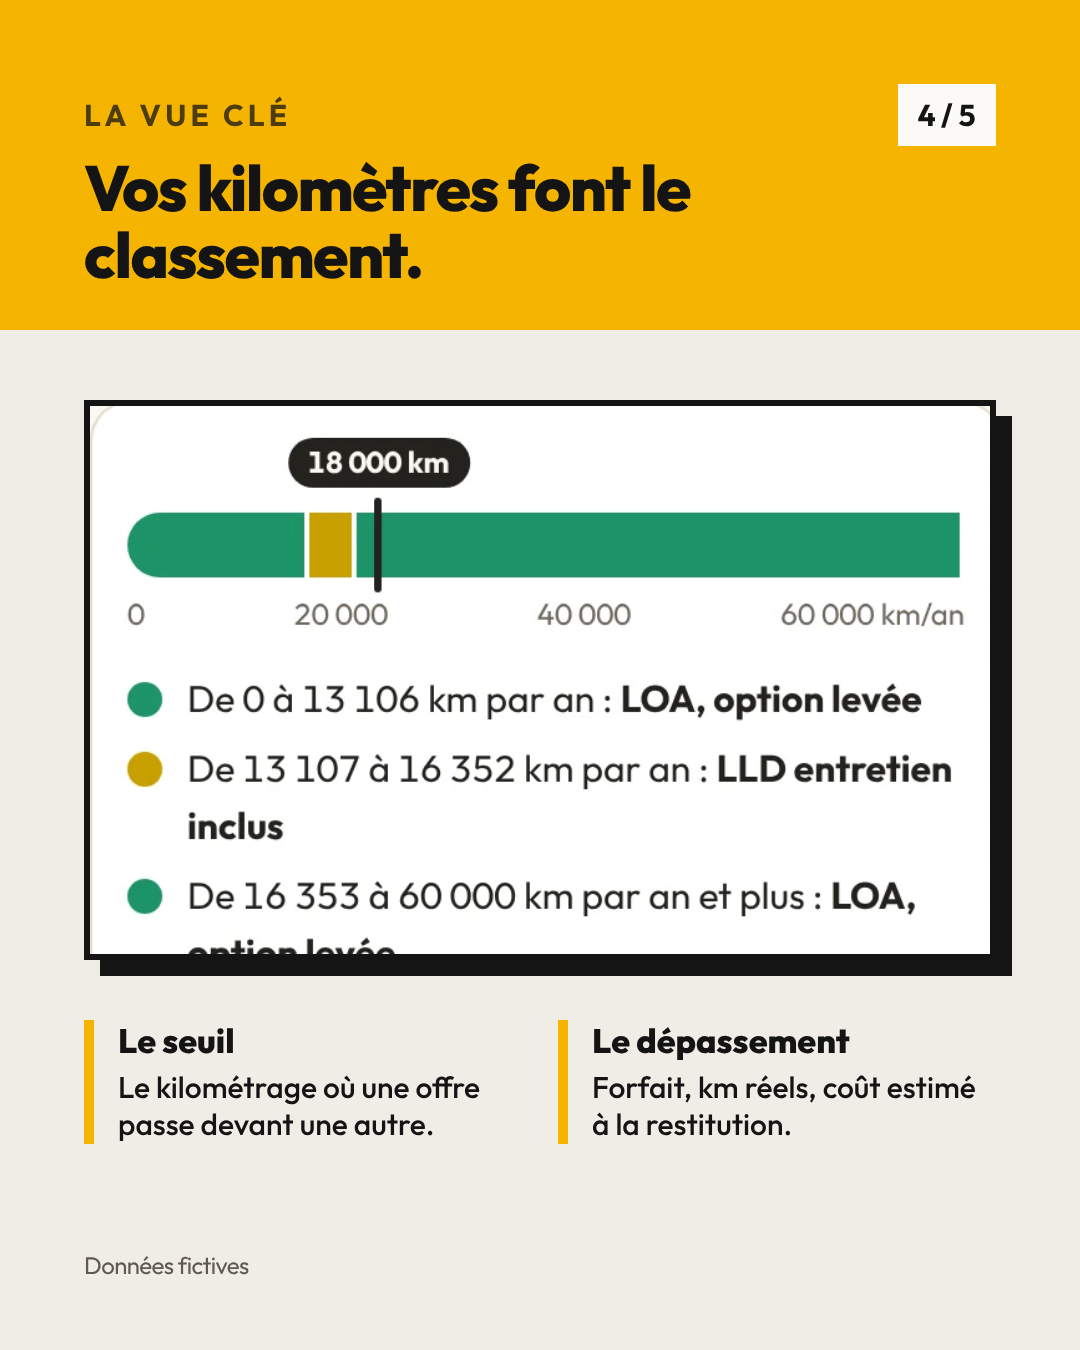
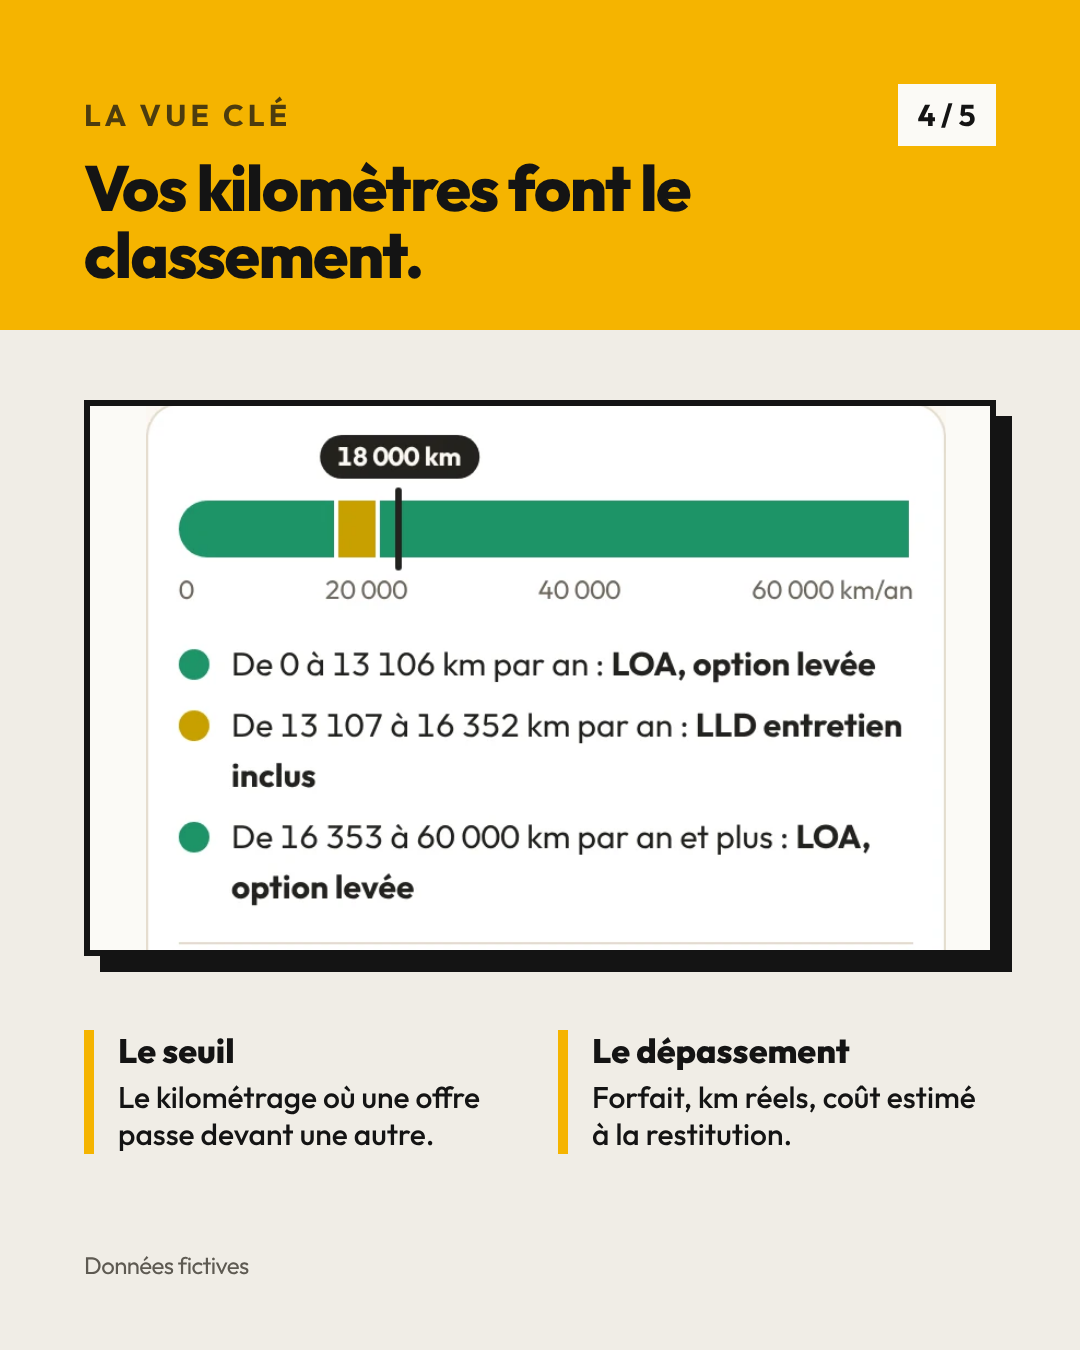
T66 Simulateur leasing ou achat : application, tests, page catalogue, captures et communication
Claude-Session: https://claude.ai/code/session_0183EW52c4YZM6xoukpbqtKb

diff --git a/docs/templates/communication/leasing/instagram/carrousel.html b/docs/templates/communication/leasing/instagram/carrousel.html
@@ -61,9 +61,9 @@ h1,h2,p{letter-spacing:-.025em}
 .points b{display:block;font-weight:800;font-size:38px;margin-bottom:6px}
 #leasing-4 .bandeau{background:var(--jaune);color:var(--encre)}
 #leasing-4 .bandeau .sourcil{color:var(--encre);opacity:.75}
-#leasing-4 .fenetre{position:absolute;left:84px;right:84px;top:400px;height:590px;border:6px solid var(--encre);box-shadow:16px 16px 0 var(--encre);background:var(--surface);overflow:hidden}
+#leasing-4 .fenetre{position:absolute;left:84px;right:84px;top:400px;height:556px;border:6px solid var(--encre);box-shadow:16px 16px 0 var(--encre);background:var(--surface);overflow:hidden}
 #leasing-4 .fenetre img{position:absolute;width:800px;left:56px;top:-6px}
-#leasing-4 .points{position:absolute;left:84px;right:84px;top:1050px;display:grid;grid-template-columns:1fr 1fr;gap:36px}
+#leasing-4 .points{position:absolute;left:84px;right:84px;top:1030px;display:grid;grid-template-columns:1fr 1fr;gap:36px}
 #leasing-4 .points div{font-size:30px}
 #leasing-4 .points b{font-size:34px}
 

diff --git a/docs/templates/communication/leasing/prospects.md b/docs/templates/communication/leasing/prospects.md
@@ -1,0 +1,63 @@
+# Prospects · Simulateur leasing ou achat
+
+Segments et organisations à démarcher. Aucune donnée personnelle collectée : on cible des fonctions et des
+structures, on écrit à des adresses professionnelles publiques ou via LinkedIn. Les types d'organismes
+cités existent ; aucun organisme n'est nommé ici, leur intérêt, leurs règles de recommandation et le bon
+interlocuteur sont **à vérifier** au premier contact. Aucun n'a été contacté.
+
+Produit d'appel à 12 € pour un public large (particuliers et indépendants) : la publication LinkedIn, le
+carrousel Instagram, les créateurs de contenu « finances personnelles » et le programme d'affiliation
+Gumroad comptent plus qu'une prospection une à une. **Ne jamais démarcher des vendeurs, concessions,
+banques ou loueurs comme partenaires** : l'outil sert à comparer leurs offres, il doit rester neutre.
+
+Positionnement à tenir dans tous les messages : une **simulation** que l'on remplit avec **ses propres
+devis**, sans donnée de marché ni connexion à un vendeur ; le **coût total net** sur la même période,
+revente et kilomètres compris ; **pas un conseil financier** ; la fiscalité des indépendants **n'est pas
+calculée**. Aucune économie promise.
+
+## Priorité 1 · Acheteurs directs
+
+| Segment | Pourquoi ils ont le problème | Où les trouver | Canal | Priorité |
+|---|---|---|---|---|
+| Ménages qui changent de voiture (familles, jeunes actifs) | Offres de LOA mises en avant par le loyer, comparaison difficile avec un crédit | Groupes et forums « budget », comptes Instagram finances personnelles | Instagram, LinkedIn | Haute |
+| Indépendants et professions libérales qui roulent beaucoup | Hésitent entre LLD et achat, kilométrage élevé, forfait décisif | Communautés de freelances, groupes LinkedIn d'indépendants | LinkedIn | Haute |
+| Gros rouleurs (commerciaux itinérants, trajets domicile-travail longs) | Le dépassement de forfait change tout | Groupes professionnels de commerciaux | LinkedIn | Moyenne |
+| Jeunes conducteurs, premier achat | Peu d'apport, offres « sans apport » à décoder | Comptes et chaînes « argent » pour étudiants et jeunes actifs | Instagram | Moyenne |
+| Retraités qui renouvellent leur véhicule | Comptant ou crédit, placement de l'épargne | Associations de retraités, presse locale | Partenaires | Basse |
+
+## Priorité 2 · Prescripteurs
+
+| Segment | Exemples (à vérifier) | Pourquoi | Qui contacter (fonction) | Approche | Canal |
+|---|---|---|---|---|---|
+| Conseillers en budget et éducateurs financiers | Points conseil budget, associations d'éducation budgétaire | Accompagnent des décisions d'achat importantes | Conseiller, responsable d'atelier | Démo en atelier, accès offert ; aucune rémunération supposée | E-mail professionnel public |
+| Associations de consommateurs | Associations locales de défense des consommateurs | Informent sur la LOA, la LLD et le crédit | Bénévole ou juriste chargé de l'information | Démo, liste de questions au vendeur | E-mail professionnel public |
+| Créateurs de contenu « finances personnelles » et « indépendants » | Newsletters, podcasts, comptes Instagram | Audience exactement ciblée | Adresse professionnelle publique | Affiliation Gumroad, accès gratuit, aucun contenu sponsorisé imposé | E-mail, Instagram, LinkedIn |
+| Experts-comptables d'indépendants | Cabinets locaux | Leurs clients demandent « LLD ou achat ? » ; l'outil compare le coût réel, eux ajoutent la fiscalité | Collaborateur chargé des indépendants | Démo et accès offert ; règles déontologiques à vérifier | E-mail professionnel public, LinkedIn |
+| Réseaux d'accompagnement à la création | Couveuses, coopératives d'activité et d'emploi | Premier véhicule professionnel des accompagnés | Chargé d'accompagnement | Démo, accès offert | E-mail professionnel public |
+
+## Priorité 3 · Partenaires (offrir ou intégrer le template)
+
+| Segment | Exemples (à vérifier) | Pourquoi | Qui contacter (fonction) | Approche |
+|---|---|---|---|---|
+| Comités sociaux et économiques (CSE) | CSE d'entreprises moyennes | Avantages pour les salariés, ateliers « budget » | Élu chargé des activités | Lot de codes `VTR` à tarif de groupe, à étudier |
+| Mutuelles et associations d'entraide | Services d'action sociale | Aide à la décision pour les adhérents | Responsable de l'action sociale | Accès offert pour un groupe test |
+| Écoles et formations (gestion, BTS, éducation financière) | Modules de mathématiques financières | Exercice concret sur l'annuité et le coût total | Enseignant, responsable pédagogique | Accès offert pour une classe |
+
+## Calendrier conseillé
+
+- **Janvier** : nouvelles résolutions budgétaires, renouvellement de véhicules en début d'année.
+- **Avant l'été** : achats de voiture pour les vacances.
+- **Septembre** : rentrée, changements de situation (déménagement, nouveau travail, trajets plus longs).
+
+## Message d'approche type (prescripteur, 3 lignes)
+
+> Bonjour, j'ai conçu un simulateur qui compare comptant, crédit, LOA et LLD pour une même voiture : coût
+> total net revente déduite, coût par kilomètre, seuil de kilométrage et questions à poser au vendeur, à
+> partir de ses propres devis. Je vous propose un accès gratuit pour l'essayer : https://qm-engineering.fr/templates/leasing/?demo
+
+## À vérifier avant tout contact
+
+- Les règles de recommandation d'un outil payant par une association, un point conseil ou un
+  expert-comptable : ne proposer qu'un accès gratuit et une démo, sans contrepartie.
+- Le programme d'affiliation Gumroad (taux, conditions) au moment de le proposer.
+- Que le message ne présente jamais l'outil comme un conseil financier ou fiscal.

diff --git a/docs/templates/communication/leasing/instagram.md b/docs/templates/communication/leasing/instagram.md
@@ -1,0 +1,67 @@
+# Publication Instagram · Simulateur leasing ou achat
+
+Carrousel de 5 vues (1080 × 1350) au gabarit des posts template (`car-1`, `car-2`, `car-3` de
+`../instagram/gabarits.html`), vue 5 avec renvoi au sur mesure. Kit : `../instagram/README.md`.
+Source : `instagram/carrousel.html`, rendue par
+`node docs/templates/communication/instagram/rendre.mjs ../leasing/instagram/carrousel.html`
+(PNG déplacés ensuite dans `instagram/`). Visuels : `instagram/leasing-1.png` … `-5.png`, regardés le
+14/11/2026. Titre interne proposé pour le planning : **« Template · Simulateur leasing ou achat »**.
+
+- À publier le lendemain de la publication LinkedIn, à 18:30 (planning Instagram, pas encore planifié).
+- Prix 12 € (prix minimum de Quentin), **non vérifié** : fiche Gumroad pas encore en ligne le 14/11/2026.
+  Ne publier que si la fiche est en ligne à la date prévue, sinon décaler.
+- Démo (autocollant lien d'une story, si les stories reprennent) : https://qm-engineering.fr/templates/leasing/?demo
+- Faits repris de `linkedin.md` et de l'application uniquement. Aucune marque ni modèle de voiture réel,
+  aucune économie promise.
+
+## Vues
+
+1. Couverture-question (papier) : « LOA, LLD, crédit ou comptant ? » / Laquelle vous coûtera vraiment le
+   moins cher ?
+2. Le problème (fond encre) : Un loyer n'est pas un prix ; premier loyer, option d'achat, forfait
+   kilométrique, revente ; ce qui compte, c'est le coût total sur la période.
+3. Ce que fait le template (bandeau bleu, capture téléphone `templates-leasing-tel.webp`, 3 points) :
+   Toutes vos offres, au même étalon.
+4. La vue clé (bandeau jaune, capture téléphone du bloc kilométrage `templates-leasing-km-tel.webp`) : Vos
+   kilomètres font le classement.
+5. Appel à l'action (fond jaune), 12 €, renvoi au sur mesure.
+
+## Accroches (première ligne de la légende)
+
+- **Variante A (retenue)** : Un loyer de LOA n'est pas le prix de votre voiture.
+- **Variante B** : LOA, LLD, crédit ou comptant : la moins chère dépend surtout de vos kilomètres.
+
+## Textes alternatifs
+
+1. Titre « LOA, LLD, crédit ou comptant ? » sur fond clair, sous-titre « Laquelle vous coûtera vraiment le moins cher ? », formes géométriques rouge et jaune.
+2. Fond noir : Un loyer n'est pas un prix. Premier loyer, option d'achat, forfait kilométrique, revente : chaque offre met en avant un chiffre différent. Ce qui compte, c'est le coût total sur la période.
+3. Le template Simulateur leasing ou achat : toutes vos offres, au même étalon. Capture sur téléphone de la comparaison d'un SUV hybride fictif, avec l'offre la moins chère et son coût net. Coût total net revente déduite, coût par mois et par kilomètre, hypothèses modifiables. Données fictives.
+4. Vos kilomètres font le classement : capture de la barre des kilométrages de 0 à 60 000 km par an, avec l'offre la moins chère pour chaque plage et le repère à 18 000 km. Seuil où une offre passe devant une autre, dépassement de forfait estimé. Données fictives.
+5. Fond jaune : essayez-le avec deux voitures fictives, démo libre sans inscription, aucune donnée de marché, vos devis, achat unique à 12 €. Besoin de plus ? Version sur mesure. Lien en bio.
+
+## Légende retenue
+
+Un loyer de LOA n'est pas le prix de votre voiture.
+
+Premier loyer, option d'achat, forfait kilométrique, revente : chaque offre met en avant un chiffre différent, et aucune ne dit ce que la voiture coûtera vraiment.
+
+Le Simulateur leasing ou achat :
+▪ compare comptant, crédit, LOA et LLD sur la même période, revente estimée déduite ;
+▪ donne le coût par mois et par kilomètre, et le kilométrage où une offre passe devant une autre ;
+▪ liste les questions à poser au vendeur avant de signer.
+
+Vous reportez vos propres devis, les hypothèses restent visibles. Simulation, pas un conseil financier. Achat unique, 12 €.
+
+Besoin de plus ? Vos règles, vos utilisateurs, vos outils : je construis la version sur mesure.
+
+Démo libre et contact : lien en bio.
+
+#BudgetFamilial #Budget #Organisation #Indépendant #Freelance
+
+## Story d'annonce
+
+Gabarit `story` du kit (1080 × 1920) : « Leasing ou achat : le vrai prix de votre voiture. » ; sous-titre
+« Comptant, crédit, LOA, LLD côte à côte » ; autocollant lien vers
+https://qm-engineering.fr/templates/leasing/?demo (« Essayer la démo ») ; mention « Données fictives » si
+une capture est reprise. Stories en pause depuis le 13/11/2026 (voir le kit) : image à produire seulement
+quand elles reprennent.
